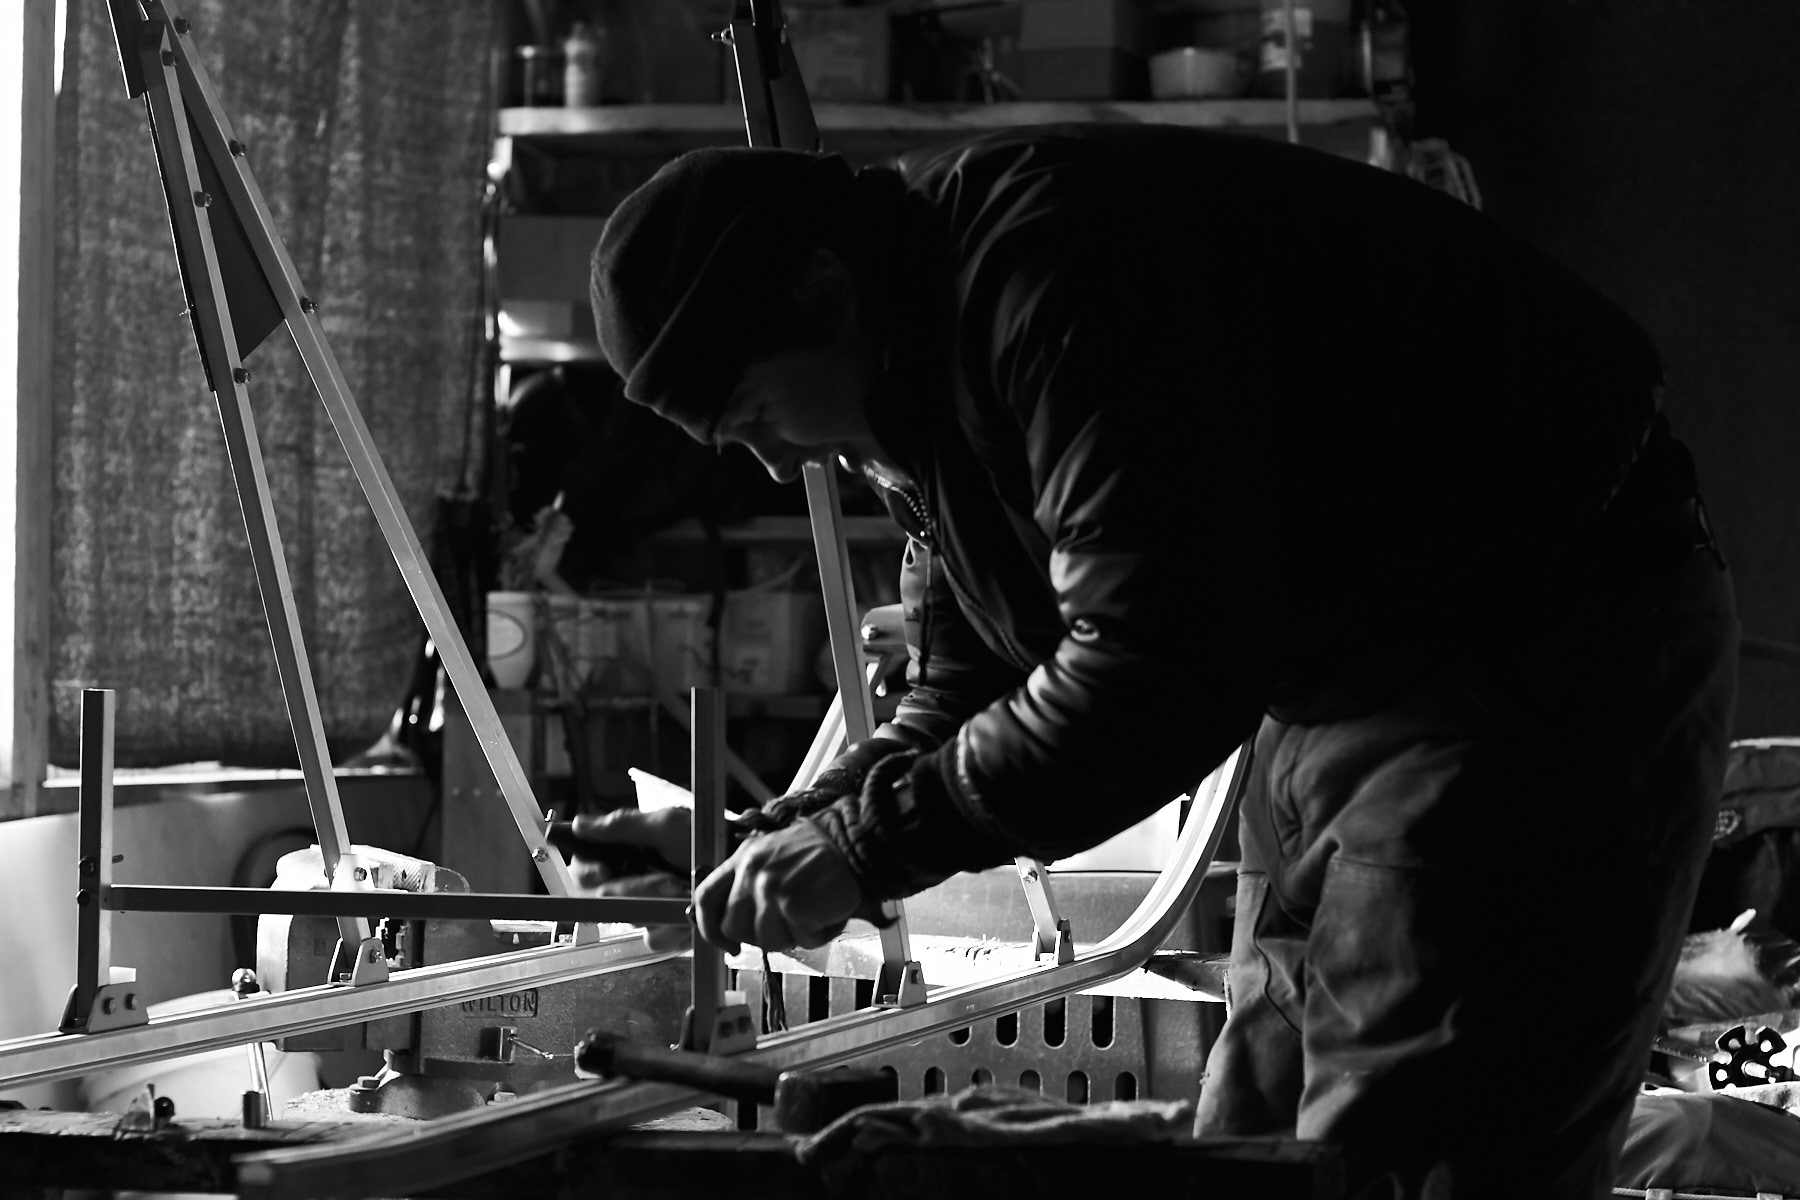
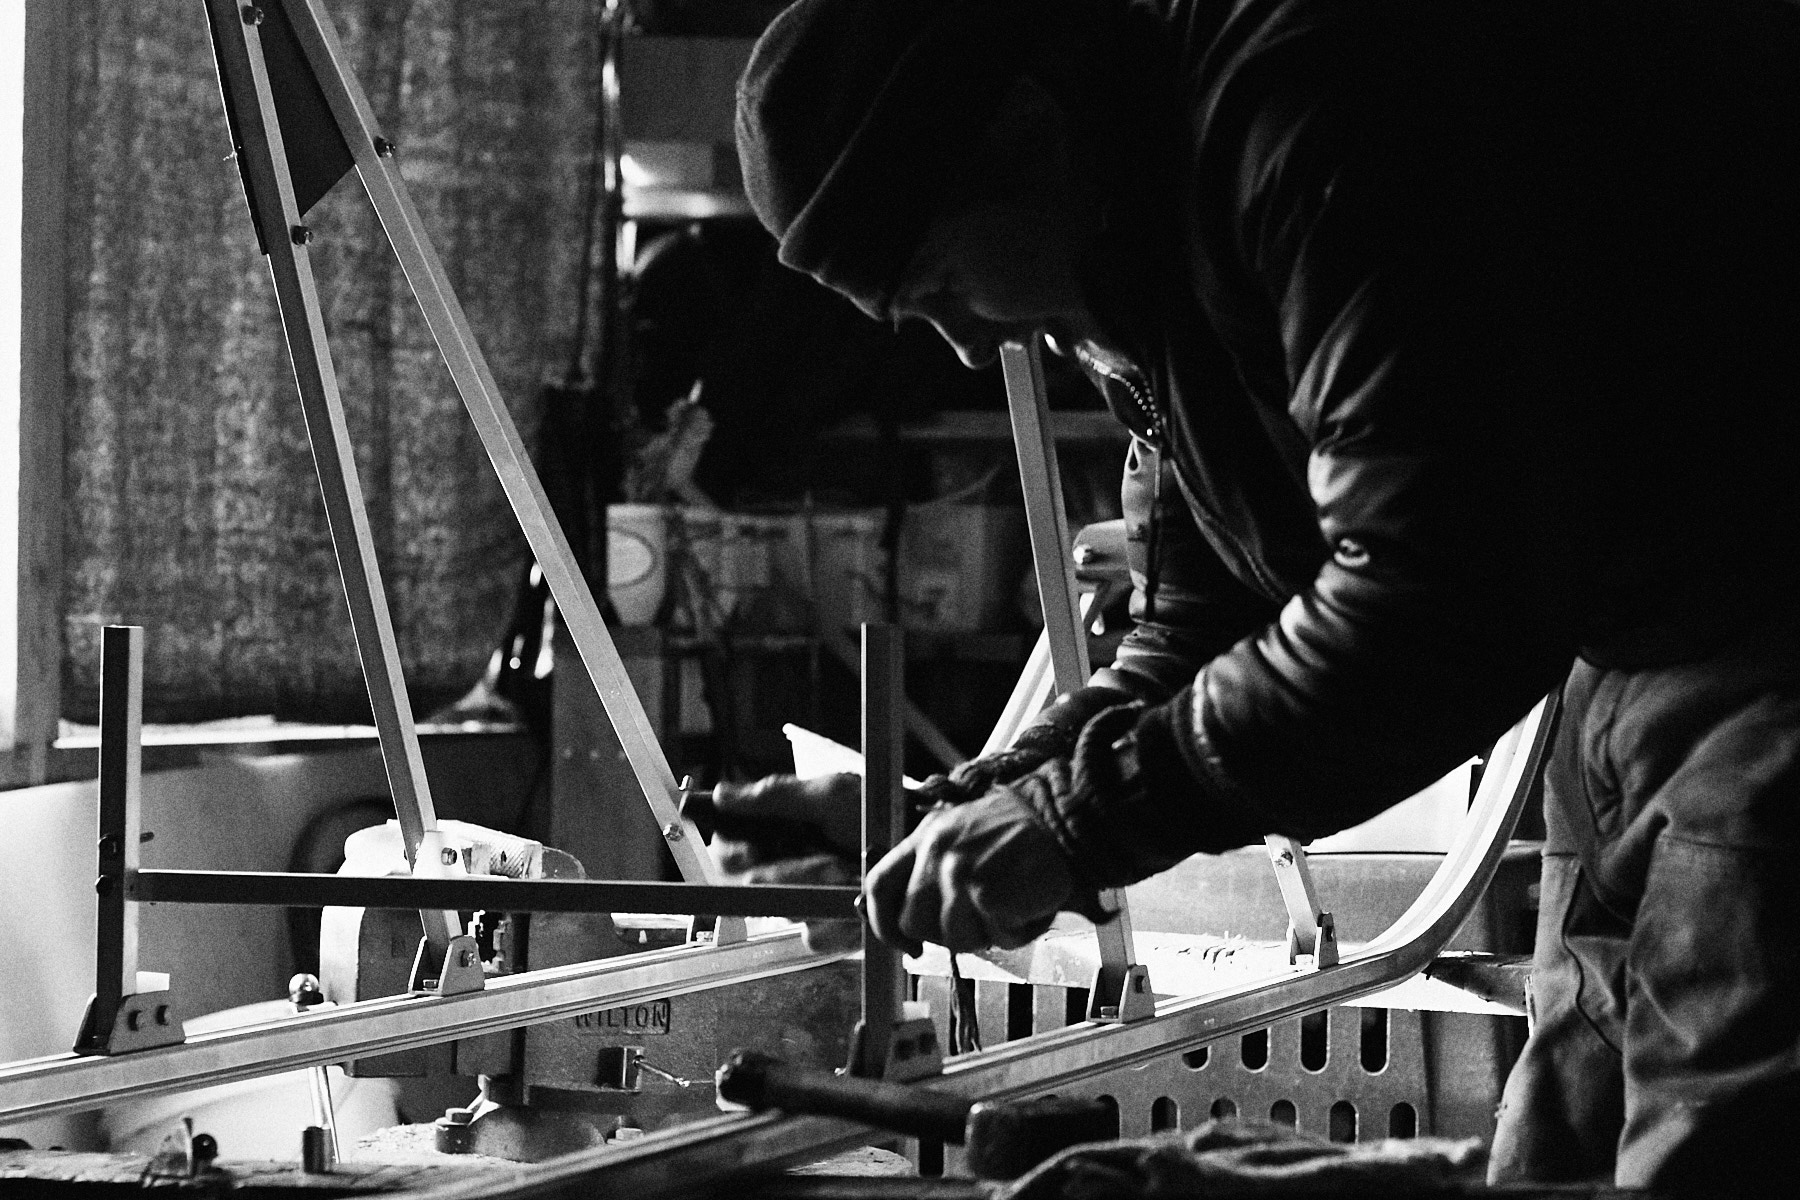
2024 Aug: resurrection + hugo update
* 1: Hugo update 0.57 -> 0.133
* 2: gallery: alaska: pic updates
* 3: allow unsafe html in templates, footer tweak
* 4: remove resume from header
* 5: zed linebreak fix

diff --git a/layouts/_default/baseof.html b/layouts/_default/baseof.html
@@ -1,41 +1,41 @@
-<!DOCTYPE html>
+<!doctype html>
 <html>
-  <head>
-    <meta charset="utf-8">
-    <title>{{ block "title" . }}{{ .Site.Title }}{{ end }}</title>
-   
-    {{ block "css" .}}
-      {{ $style := resources.Get "sass/main.scss" | resources.ToCSS | resources.Minify | resources.Fingerprint }}
-      <link rel="stylesheet" href="{{ $style.RelPermalink }}" media="screen">  
+    <head>
+        <meta charset="utf-8" />
+        <title>{{ block "title" . }}{{ .Site.Title }}{{ end }}</title>
+
+        {{ block "css" .}} {{ $style := resources.Get "sass/main.scss" | resources.ToCSS | resources.Minify | resources.Fingerprint }}
+        <link
+            rel="stylesheet"
+            href="{{ $style.RelPermalink }}"
+            media="screen"
+        />
+        {{ end }}
+        <meta name="HandheldFriendly" content="True" />
+        <meta name="MobileOptimized" content="320" />
+        <meta name="viewport" content="width=device-width, initial-scale=1.0" />
+        <link rel="preconnect" href="https://fonts.gstatic.com/" crossorigin />
+        <link
+            rel="preconnect"
+            href="https://fonts.googleapis.com/"
+            crossorigin
+        />
+    </head>
+
+    {{ $bodyKlass := "section-default"}}
+    {{ if .Params.bodyKlass }} {{ $bodyKlass = .Params.bodyKlass }}
+    {{ else if .IsHome }} {{ $bodyKlass = "section-home"}}
+    {{ else }} {{ $bodyKlass = (printf "section-%s" .Section )}}
     {{ end }}
-    <meta name="HandheldFriendly" content="True">
-    <meta name="MobileOptimized" content="320">
-    <meta name="viewport" content="width=device-width, initial-scale=1.0"/>
-    <link rel="preconnect" href="https://fonts.gstatic.com/" crossorigin>
-    <link rel="preconnect" href="https://fonts.googleapis.com/" crossorigin>
-  </head>
+    <body class="{{ $bodyKlass }}">
+        <nav>
+            <a href="/">home</a>
+            <a href="/blog">blog</a>
+            <a href="/gallery">photos</a>
+        </nav>
 
-  {{ $bodyKlass := "section-default"}}
-  {{ if .Params.bodyKlass }}
-    {{ $bodyKlass = .Params.bodyKlass }}
-  {{ else if .IsHome }}
-    {{ $bodyKlass = "section-home"}}
-  {{ else }}
-    {{ $bodyKlass = (printf "section-%s" .Section ) }}
-  {{ end }}
-  <body class="{{ $bodyKlass }}">
+        <div class="page">{{ block "main" . }} {{ .Content }} {{ end }}</div>
 
-   <nav>
-    <a href="/">home</a>
-    <a href="/blog">blog</a>
-    <a href="/resume">resume</a>
-    <a href="/gallery">photos</a>
-   </nav>
-
-   <div class="page">
-    {{ block "main" . }}
-      {{ .Content }}
-    {{ end }}
-  </div>
-
-  {{ partial "footer.html" . }}
+        {{ partial "footer.html" . }}
+    </body>
+</html>

diff --git a/layouts/partials/contact.html b/layouts/partials/contact.html
@@ -1,11 +1,10 @@
 <ul class="contact">
-
-  <li><span>email</span>randy@randykarels.com</li>
-
-  <li><span>twitter</span><a href="http://twitter.com/randykarels">@randykarels</a></li>
-
-  <li><span>web</span><a href="http://randykarels.com">randykarels.com</a></li>
-
-  <li><span>instagram</span><a href="https://www.instagram.com/rkrls/">@rkrls</a></li>
-  
+    <li><span>email</span>randy@randykarels.com</li>
+    <li>
+        <span>web</span><a href="http://randykarels.com">randykarels.com</a>
+    </li>
+    <li>
+        <span>instagram</span
+        ><a href="https://www.instagram.com/rkrls/">@rkrls</a>
+    </li>
 </ul>
